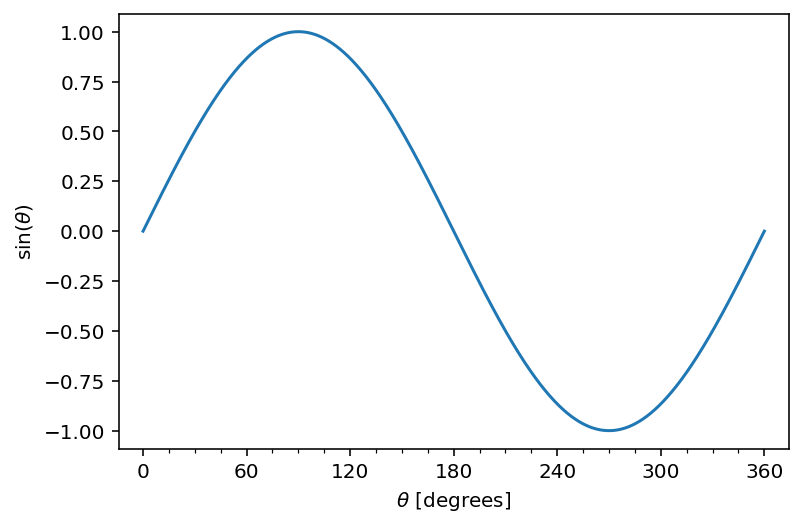
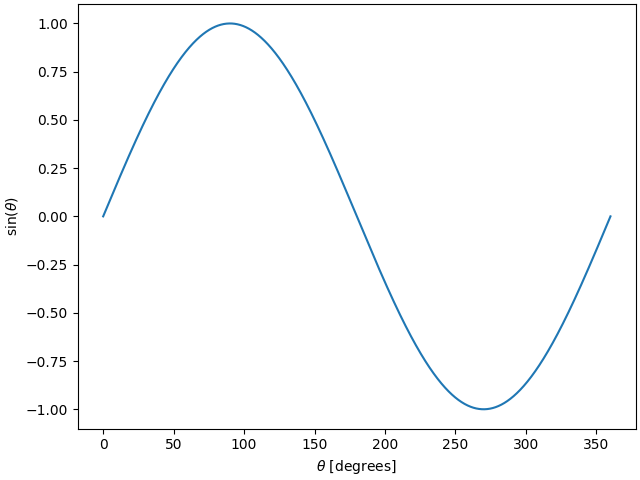
Revised examples in README.md

diff --git a/funkyfresh/anc/make_examples.py b/funkyfresh/anc/make_examples.py
@@ -1,0 +1,22 @@
+import astropy.units as u
+import matplotlib.pyplot as plt
+import numpy as np
+from funkyfresh import set_agu_style
+
+theta = np.linspace(0, 360, 3601) * u.degree
+
+fig, axis = plt.subplots(constrained_layout=True)
+axis.plot(theta, np.sin(theta))
+axis.set_xlabel(r'$\theta$ [degrees]')
+axis.set_ylabel(r'$\sin(\theta)$')
+plt.savefig('matplotlib_default.png')
+plt.close(fig)
+
+style = set_agu_style()
+fig, axis = plt.subplots(figsize=(style.column_width, 2),
+                         constrained_layout=True)
+axis.plot(theta, np.sin(theta), color=style.blue)
+axis.set_xlabel(r'$\theta$ [degrees]')
+axis.set_ylabel(r'$\sin(\theta)$')
+plt.savefig('funkyfresh.png')
+plt.close(fig)

diff --git a/README.md b/README.md
@@ -2,7 +2,8 @@
 
 This package provides functions which automatically set Matplotlib style 
 parameters (fonts, line weights, etc.) to match those of select scientific 
-journals.
+journals. If you use this, your plots will look funky and fresh (at least 
+compared to the Matplotlib defaults).
 
 ## Currently-Supported Styles
 - American Geophysical Union (AGU)
@@ -38,73 +39,64 @@ You're now ready to use the `funkyfresh` package!
 
 ## Usage
 Usage is pretty simple. Start by importing the function for the desired style.
-There are currently three options: `set_aas_style`, `set_agu_style` and 
-`set_personal_whitepaper_style()`. For example, to set the style to match a JGR 
-journal:
+These are the current styles available:
+1. `set_aas_style`
+2. `set_agu_style`
+3. `set_personal_whitepaper_style()`
+4. `set_caltech_thesis_style()`
+
+For example, to set the style to match a JGR journal:
 ```
 from funkyfresh import set_agu_style
 style = set_agu_style()
 ```
 The function returns an object which has a few parameters you might want to 
-use when making figures. The AGU style includes three figure widths (column, 
-text and page) and the predominant blue color used for section title font 
-colors. The AAS style includes two figure widths (column and page).
-
-To create a column-width figure with a height of 2 inches, you might do this:
-```
-fig = plt.figure(figsize=(style.column_width, 2))
-```
-If you wanted to plot sine using the JGR blue color (#004174), you could do 
-this:
-```
-theta = np.linspace(0, 2 * np.pi, 1000)
-plt.plot(theta, np.sin(theta), color=style.blue)
-```
-The AAS articles don't seem to have any particular house color, so it isn't an 
-option.
+use when making figures. The documentation for each style lists the available
+properties you can access.
 
 ## Example
-Here's a sine curve plotted with the default settings:
+Let's say for some reason I want a plot of one period of a sine wave for a 
+paper I'm going to publish in the AGU journal Geophysical Research Letters. 
+Here's a sine curve plotted with the default settings. It looks alright, but 
+the fonts don't match the journal style at all, so this plot will look 
+inconsistent with the rest of the document.
 ```
 import astropy.units as u
 import matplotlib.pyplot as plt
-import matplotlib.ticker as ticker
 import numpy as np
-%config InlineBackend.figure_format = 'retina'
 
 theta = np.linspace(0, 360, 3601) * u.degree
 
-fig, axis = plt.subplots()
+fig, axis = plt.subplots(constrained_layout=True)
 axis.plot(theta, np.sin(theta))
-axis.xaxis.set_major_locator(ticker.MultipleLocator(60))
-axis.xaxis.set_minor_locator(ticker.MultipleLocator(15))
-axis.set_xlim(-14, 374)
-axis.set_ylim(-1.09, 1.09)
 axis.set_xlabel(r'$\theta$ [degrees]')
 axis.set_ylabel(r'$\sin(\theta)$')
 plt.show()
 ```
 ![](funkyfresh/anc/matplotlib_default.png)
 
-and here's how it looks with the AGU style applied:
+By calling `set_agu_style()` and changing the figure width to 
+`column_width` and the color of the line to the blue color included in the 
+style, the same plot looks much better with minimal changes to the code. The
+fonts now match the journal figure captions both in typeface and size, the
+lineweights also match, and the figure size should (hopefully) encourage 
+whoever is typesetting your paper to place this image in a column-width figure.
+I'd probably still make a few changes (like placing major ticks along the 
+horizontal axis to multiples of 60, and minor ticks to multiples of 15), but 
+those types of changes aren't a matter of visual style but rather best 
+practices for data display.
 ```
 import astropy.units as u
 import matplotlib.pyplot as plt
-import matplotlib.ticker as ticker
 import numpy as np
 from funkyfresh import set_agu_style
-%config InlineBackend.figure_format = 'retina'
 
 style = set_agu_style()
 
 theta = np.linspace(0, 360, 3601) * u.degree
 
-fig, axis = plt.subplots(figsize=(style.column_width, 2))
+fig, axis = plt.subplots(figsize=(style.column_width, 2), constrained_layout=True)
 axis.plot(theta, np.sin(theta), color=style.blue)
-axis.xaxis.set_major_locator(ticker.MultipleLocator(60))
-axis.xaxis.set_minor_locator(ticker.MultipleLocator(15))
-axis.set_xlim(-14, 374)
-axis.set_ylim(-1.09, 1.09)
 axis.set_xlabel(r'$\theta$ [degrees]')
 axis.set_ylabel(r'$\sin(\theta)$')
 plt.show()
